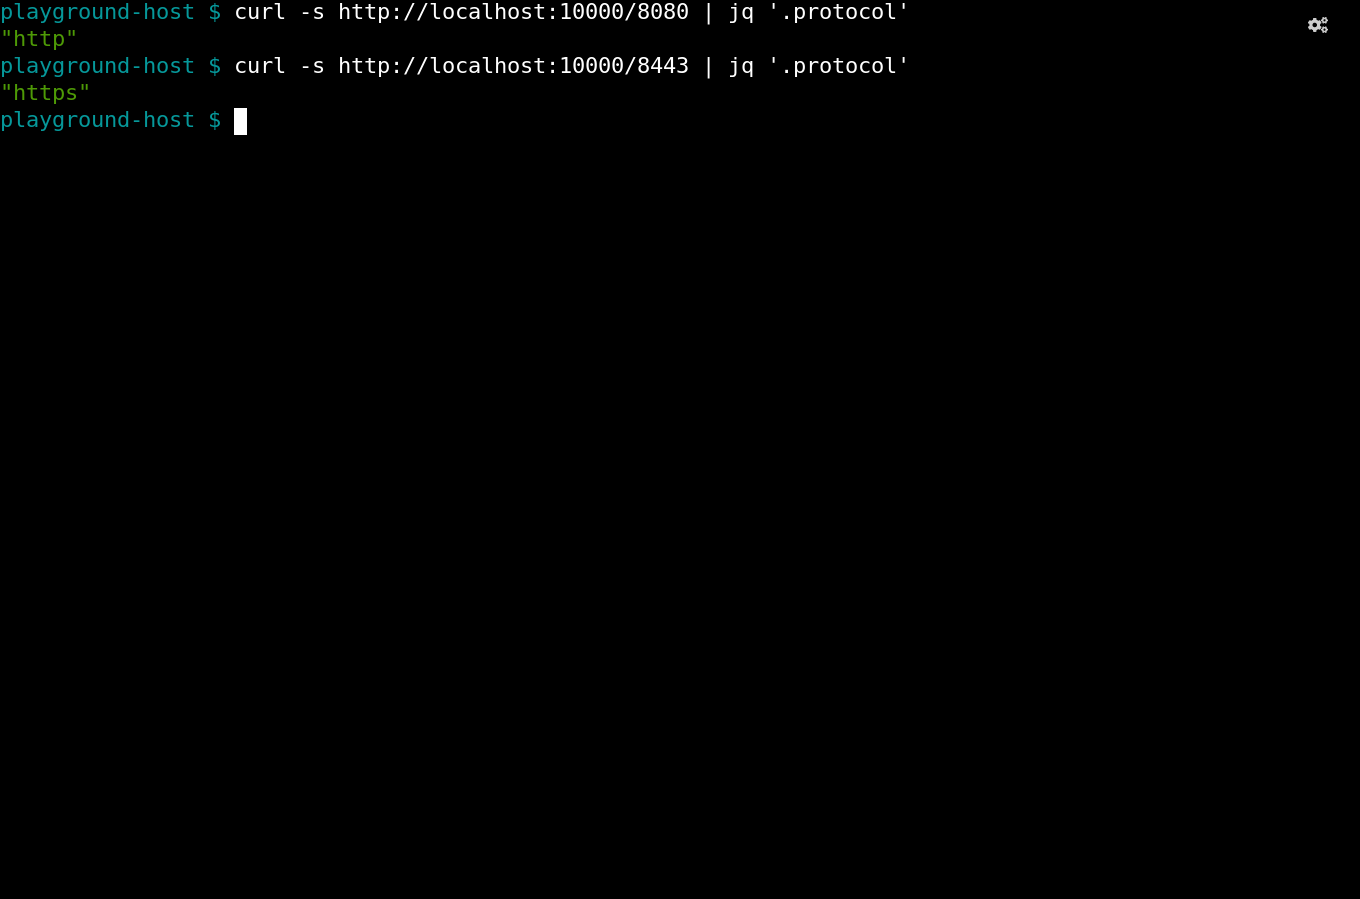
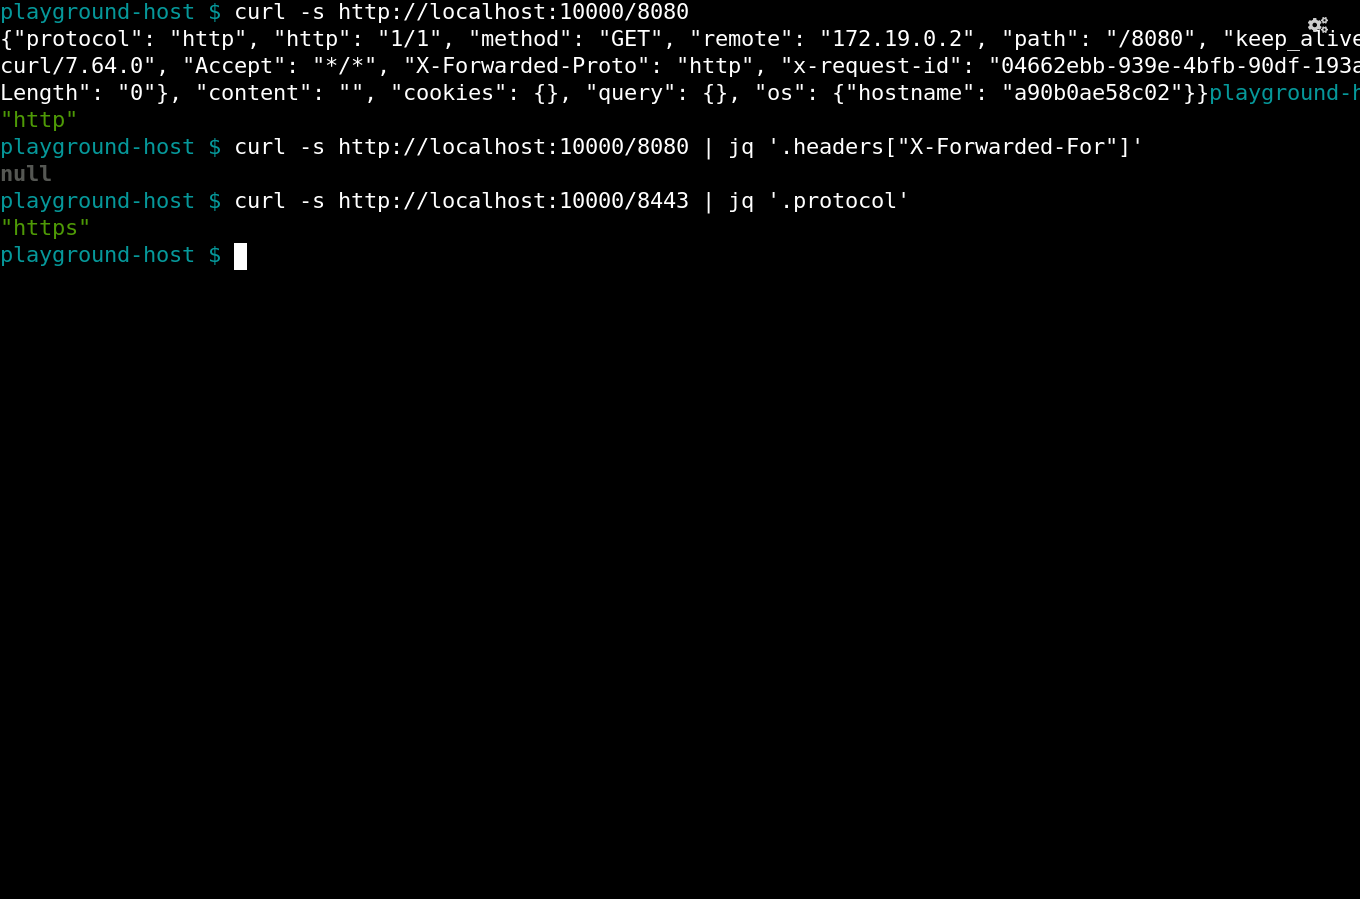
integration/

diff --git a/integration/tests/journeys/test_simple_front_proxy.py b/integration/tests/journeys/test_simple_front_proxy.py
@@ -31,7 +31,13 @@ async def test_journey_simple_front_proxy(playground):
     await playground.switch_to('console')
     await asyncio.sleep(2)
     await playground.console_command(
+        "curl -s http://localhost:10000/8080", 1)
+    await playground.console_command(
         "curl -s http://localhost:10000/8080 | jq '.protocol'", 1)
     await playground.console_command(
-        "curl -s http://localhost:10000/8443 | jq '.protocol'", 2)
+        "curl -s http://localhost:10000/8080 | jq '.headers[\"X-Forwarded-Proto\"]'", 1)
+    await playground.console_command(
+        "curl -s http://localhost:10000/8443 | jq '.protocol'", 1)
+    await playground.console_command(
+        "curl -s http://localhost:10000/8080 | jq '.headers[\"X-Forwarded-Proto\"]'", 1)
     await playground.snap('journey.front_proxy.console.http')
